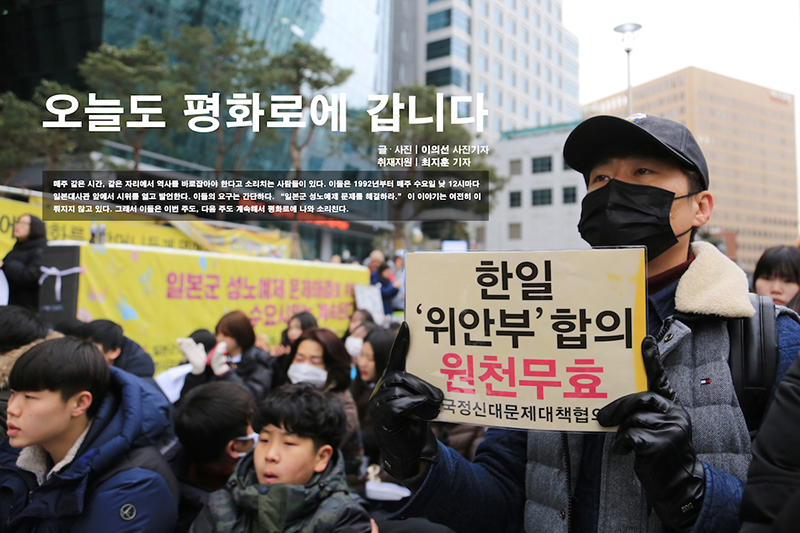
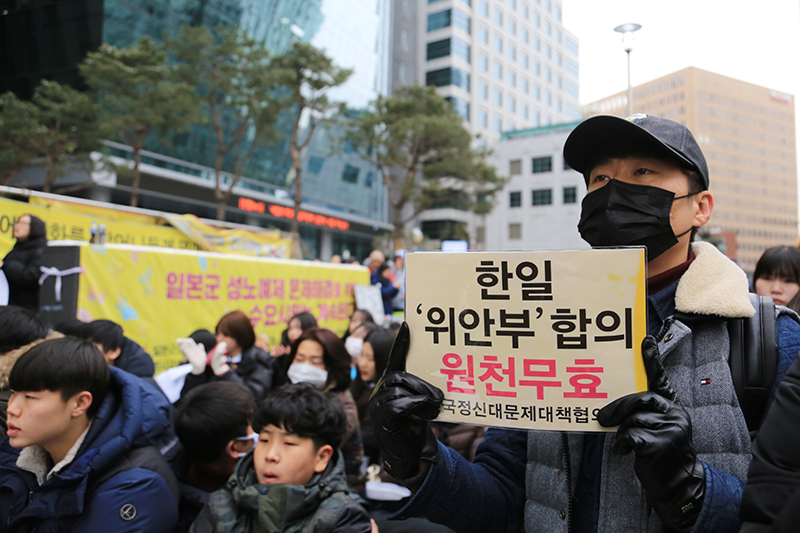
Initial Commit

Changed region(s): [[0.0312, 0.1501, 0.625, 0.4203]]

diff --git a/_posts/2018-4-25-07 사진기획.md b/_posts/2018-4-25-07 사진기획.md
@@ -14,10 +14,35 @@ introduction:
 <hr/>
 
 <!--사진기획-->
-<br/>
 <img itemprop="image" src="/assets/img/scholarship/2018_3/사진기획1.jpg" alt="사진기획1" width="800" height="auto">
+
+
+&nbsp; &nbsp; 매주 같은 시간, 같은 자리에서 역사를 바로잡아야 한다고 소리치는 사람들이 있다. 이들은 1992년부터 매주 수요일 낮 12시마다
+일본대사관 앞에서 시위를 열고 발언한다. 이들의 요구는 간단하다. “일본군 성노예제 문제를 해결하라.” 이 이야기는 여전히 이
+뤄지지 않고 있다. 그래서 이들은 이번 주도, 다음 주도 계속해서 평화로에 나와 소리친다.
+
+
 <img itemprop="image" src="/assets/img/scholarship/2018_3/사진기획2.jpg" alt="사진기획2" width="800" height="auto">
+
+
+01 월의 어느 눈 내리는 날, 평화로에 소녀상이 앉아 있다.
+02 수요시위를 알리는 현수막 앞에서 한 시민이 서명 운동에 참여하고 있다.
+03 제1,320차 수요시위를 주관한 <새늘>의 김예지, 이효정 학생이 발언하고 있다.
+04 정대협 윤미향 대표와 결의하는 집회 참가자들.
+05 나비 모양의 메모지에 시민들이 적어 놓은 응원의 말.
+
+
 <img itemprop="image" src="/assets/img/scholarship/2018_3/사진기획3.jpg" alt="사진기획3" width="800" height="auto">
+
+
+&nbsp; &nbsp; 제1,320차 ‘일본군 성노예제 문제해결을 위한 수요시위’에서 한국정신대문제대책협의회(정대협) 윤미향 대표는 “할머니들의 역사
+우리가 기억하겠습니다. ‘함께 평화’를 만들어 가겠습니다”라고 말하며 참가자들과 결의했다. 이번 수요시위를 주관한 <새늘>의 김
+예지, 이효정 학생은 “제가 살아 있는 동안은 끝까지 함께 싸우겠습니다”라고 말했다.
+
+&nbsp; &nbsp; 일본군 성노예제 문제에 대한 갈등은 여전히 진행 중이다. 지난 1월, 강경화 외교부장관은 “일본이 자발적으로 진정한 사과를 하고 할
+머니들의 상처 치유를 위해 노력해야 한다”고 말했다. 이에 일본 아베 총리는 “한국 측이 일방적으로 추가 조치를 요구하는 것은 절대 
+받아들일 수 없다”고 말했다. 일본은 여전히 폭력적인 역사 지우기 태도를 보인다. 일본군 성노예제 문제를 해결하고, 역사를 바로잡기
+위해서는 우리 모두가 싸워야 한다. 그래서 누군가는 오늘도 평화로로 향한다.
 
 
 | 글·사진 &#124; 이의선 사진기자 | 취재지원 &#124; 최지훈 기자 |
